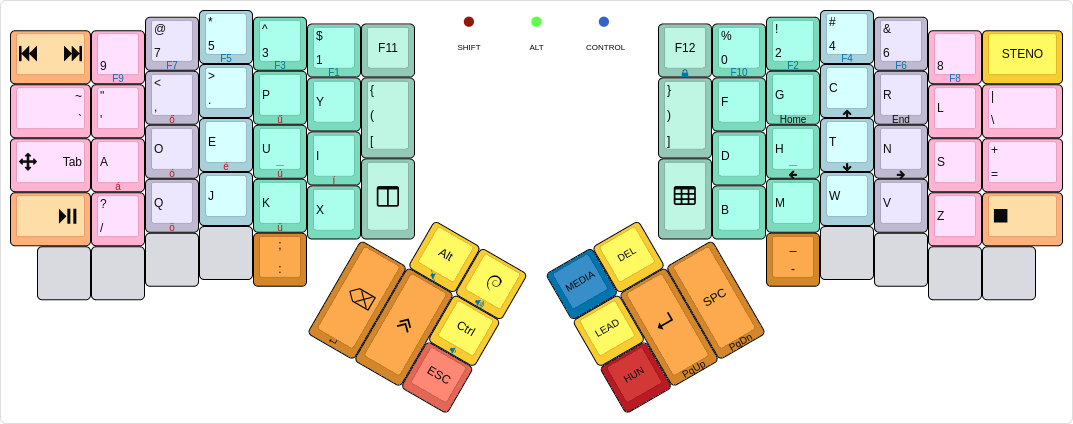
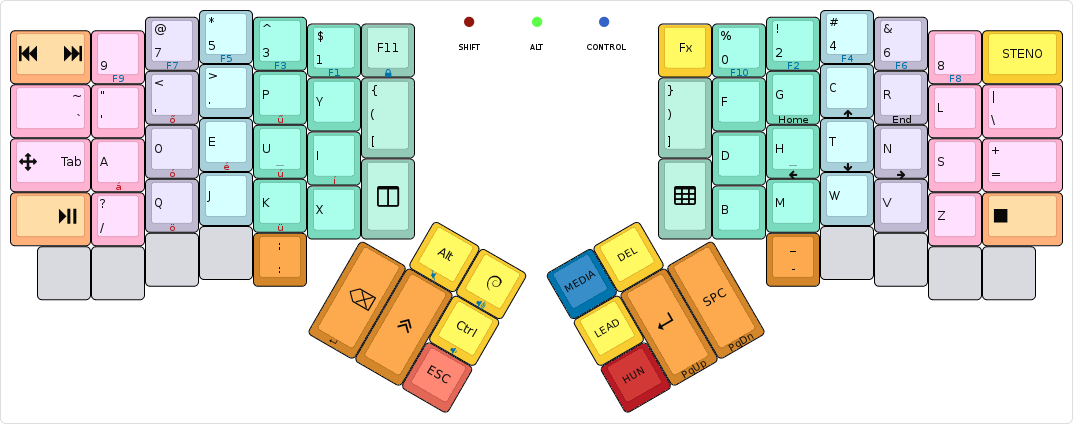
Replace F12 with Fx
The new key does an `Alt` + **Media** layer combo, both as one-shot.

This fixes #133.

diff --git a/keymap.c b/keymap.c
@@ -64,6 +64,9 @@ enum {
   A_8,
   A_9,
   A_0,
+
+  // Fx
+  Fx,
 };
 
 /* Fn keys */
@@ -113,7 +116,7 @@ const uint16_t PROGMEM keymaps[][MATRIX_ROWS][MATRIX_COLS] = {
 /* Keymap 0: Base Layer
  *
  * ,-----------------------------------------------------.           ,-----------------------------------------------------.
- * | Next/Prev | 9    | 7  @ | 5  * | 3  ^ | 1  $ | F11  |           |  F12 | 0  % | 2  ! | 4  # | 6  & | 8    |    Plover |
+ * | Next/Prev | 9    | 7  @ | 5  * | 3  ^ | 1  $ | F11  |           |  Fx  | 0  % | 2  ! | 4  # | 6  & | 8    |    Plover |
  * |-----------+------+------+------+------+-------------|           |------+------+------+------+------+------+-----------|
  * |         ~ |   '  |   ,  |   .  |   P  |   Y  |   (  |           |  )   |   F  |   G  |   C  |   R  |  L   | \         |
  * |-----------+------+------+------+------+------|   [  |           |  ]   |------+------+------+------+------+-----------|
@@ -144,7 +147,7 @@ const uint16_t PROGMEM keymaps[][MATRIX_ROWS][MATRIX_COLS] = {
                                                     ,KC_BSPC,F(F_SFT),KC_ESC
 
                                                                 // right hand
-                                                               ,KC_F12    ,M(A_0)  ,M(A_2)    ,M(A_4)  ,M(A_6)  ,M(A_8)   ,M(A_PLVR)
+                                                               ,M(Fx)     ,M(A_0)  ,M(A_2)    ,M(A_4)  ,M(A_6)  ,M(A_8)   ,M(A_PLVR)
                                                                ,TD(CT_RBP),KC_F    ,KC_G      ,KC_C    ,KC_R    ,KC_L     ,KC_BSLS
                                                                           ,KC_D    ,KC_H      ,KC_T    ,KC_N    ,KC_S     ,KC_EQL
                                                                ,TD(CT_TPS),KC_B    ,KC_M      ,KC_W    ,KC_V    ,KC_Z     ,KC_MSTP
@@ -158,7 +161,7 @@ const uint16_t PROGMEM keymaps[][MATRIX_ROWS][MATRIX_COLS] = {
 /* Keymap 1: Adore layer
  *
  * ,-----------------------------------------------------.           ,-----------------------------------------------------.
- * | Play/Pause| 9    | 7  @ | 5  * | 3  ^ | 1  $ | F11  |           |  F12 | 0  % | 2  ! | 4  # | 6  & | 8    |    Plover |
+ * | Play/Pause| 9    | 7  @ | 5  * | 3  ^ | 1  $ | F11  |           |  Fx  | 0  % | 2  ! | 4  # | 6  & | 8    |    Plover |
  * |-----------+------+------+------+------+-------------|           |------+------+------+------+------+------+-----------|
  * |         \ |   X  |   W  |   C  |   H  |   F  |   (  |           |  )   |   M  |   G  |   L  |   P  |  /   | `~        |
  * |-----------+------+------+------+------+------|   [  |           |  ]   |------+------+------+------+------+-----------|
@@ -189,7 +192,7 @@ const uint16_t PROGMEM keymaps[][MATRIX_ROWS][MATRIX_COLS] = {
                                                     ,KC_BSPC,F(F_SFT),KC_ESC
 
                                                                 // right hand
-                                                               ,KC_F12    ,M(A_0)   ,M(A_2)  ,M(A_4)  ,M(A_6)  ,M(A_8)  ,M(A_PLVR)
+                                                               ,M(Fx)     ,M(A_0)   ,M(A_2)  ,M(A_4)  ,M(A_6)  ,M(A_8)  ,M(A_PLVR)
                                                                ,TD(CT_RBP),KC_M     ,KC_G    ,KC_L    ,KC_P    ,KC_SLSH ,KC_GRV
                                                                           ,KC_D     ,KC_R    ,KC_T    ,KC_N    ,KC_S    ,KC_EQL
                                                                ,TD(CT_TPS),KC_B     ,KC_K    ,KC_V    ,KC_Y    ,KC_J    ,KC_NO
@@ -342,7 +345,7 @@ const uint16_t PROGMEM keymaps[][MATRIX_ROWS][MATRIX_COLS] = {
 /* Keymap 5: Navigation & Media layer
  *
  * ,-----------------------------------------------------.           ,-----------------------------------------------------.
- * |           |  F9  |  F7  |  F5  |  F3  |  F1  |      |           |ScrLCK| F10  |  F2  |  F4  |  F6  |  F8  |           |
+ * |           |  F9  |  F7  |  F5  |  F3  |  F1  |ScrLCK|           |      | F10  |  F2  |  F4  |  F6  |  F8  |           |
  * |-----------+------+------+------+------+-------------|           |------+------+------+------+------+------+-----------|
  * |           |      |      |      |      |      |      |           |      |      |      |      |      |      |           |
  * |-----------+------+------+------+------+------|      |           |      |------+------+------+------+------+-----------|
@@ -362,7 +365,7 @@ const uint16_t PROGMEM keymaps[][MATRIX_ROWS][MATRIX_COLS] = {
  */
 [NMDIA] = KEYMAP(
 // left hand
- KC_NO      ,KC_F9       ,KC_F7      ,KC_F5   ,KC_F3   ,KC_F1   ,KC_NO
+ KC_NO      ,KC_F9       ,KC_F7      ,KC_F5   ,KC_F3   ,KC_F1   ,LGUI(KC_L)
 ,KC_NO      ,KC_NO       ,KC_NO      ,KC_NO   ,KC_NO   ,KC_NO   ,KC_NO
 ,KC_NO      ,KC_NO       ,KC_NO      ,KC_NO   ,KC_NO   ,KC_NO
 ,KC_NO      ,KC_NO       ,KC_NO      ,KC_NO   ,KC_NO   ,KC_NO   ,KC_NO
@@ -372,7 +375,7 @@ const uint16_t PROGMEM keymaps[][MATRIX_ROWS][MATRIX_COLS] = {
                                                  ,KC_NO ,KC_NO   ,KC_TRNS
 
                                                                      // right hand
-                                                                     ,LGUI(KC_L),KC_F10  ,KC_F2   ,KC_F4   ,KC_F6   ,KC_F8    ,KC_NO
+                                                                     ,KC_TRNS   ,KC_F10  ,KC_F2   ,KC_F4   ,KC_F6   ,KC_F8    ,KC_NO
                                                                      ,KC_NO     ,KC_NO   ,KC_NO   ,KC_NO   ,KC_NO   ,KC_NO    ,KC_NO
                                                                                 ,KC_NO   ,KC_NO   ,KC_NO   ,KC_NO   ,KC_NO    ,KC_NO
                                                                      ,KC_NO     ,KC_NO   ,KC_NO   ,KC_NO   ,KC_NO   ,KC_NO    ,KC_NO
@@ -609,6 +612,17 @@ const macro_t *action_get_macro(keyrecord_t *record, uint8_t id, uint8_t opt)
         /* Plover base */
       case A_PLVR:
         toggle_steno(record->event.pressed);
+        break;
+
+        /* Fx */
+      case Fx:
+        if (record->event.pressed) {
+          set_oneshot_mods (MOD_LALT);
+          layer_on (NMDIA);
+          set_oneshot_layer (NMDIA, ONESHOT_START);
+        } else {
+          clear_oneshot_layer_state (ONESHOT_PRESSED);
+        }
         break;
 
         /* GUI & AppSel */

diff --git a/readme.md b/readme.md
@@ -43,6 +43,7 @@ At its core, this is a Dvorak layout, with some minor changes. The more interest
 * The `GUI` key is special, because when I double-tap it, it sends `GUI + w`, which pops up an application selector. It also switches to a one-shot layer, where the number row on the left half turns into app selector macros, for the most common things I usually want to switch to. Otherwise it behaves as on a normal layout.
 * The `ESC` key also doubles as a one-shot cancel key: if tapped while any of the one-shot modifiers are in-flight (as in, single-tapped, and not expired yet), it cancels all one-shot modifiers. It also cancels the **Hun** layer, if active. Otherwise it sends the usual keycode.
 * The **Media** and **Hun** layer keys are one-shot, the **STENO** key is a toggle.
+* The **Fx** key is one-shot, and activates the **Media** layer, along with a one-shot `Alt`.
 * When holding the `Tab`/**Arrow** key, the arrow layer activates while the key is held. Tapping the key produces the normal, `Tab` key. Double-tapping it toggles the **Arrow** layer on until a third tap.
 * Tapping the `:` key once yields `:`, tapping it twice yields `;`.
 * Tapping the `[{(`/`)}]` keys once yields `[` (or `{` when shifted), tapping them twice yields `(`.

diff --git a/NEWS.md b/NEWS.md
@@ -2,6 +2,10 @@
 
 **UNRELEASED**
 
+### Overall changes
+
+* `F12` was replaced by an `Fx` key, that activate the **Media** layer as a one-shot layer, and also `Alt` as a one-shot modifier.
+
 ### Miscellaneous
 
 * `π` can now be entered with UCIS.
